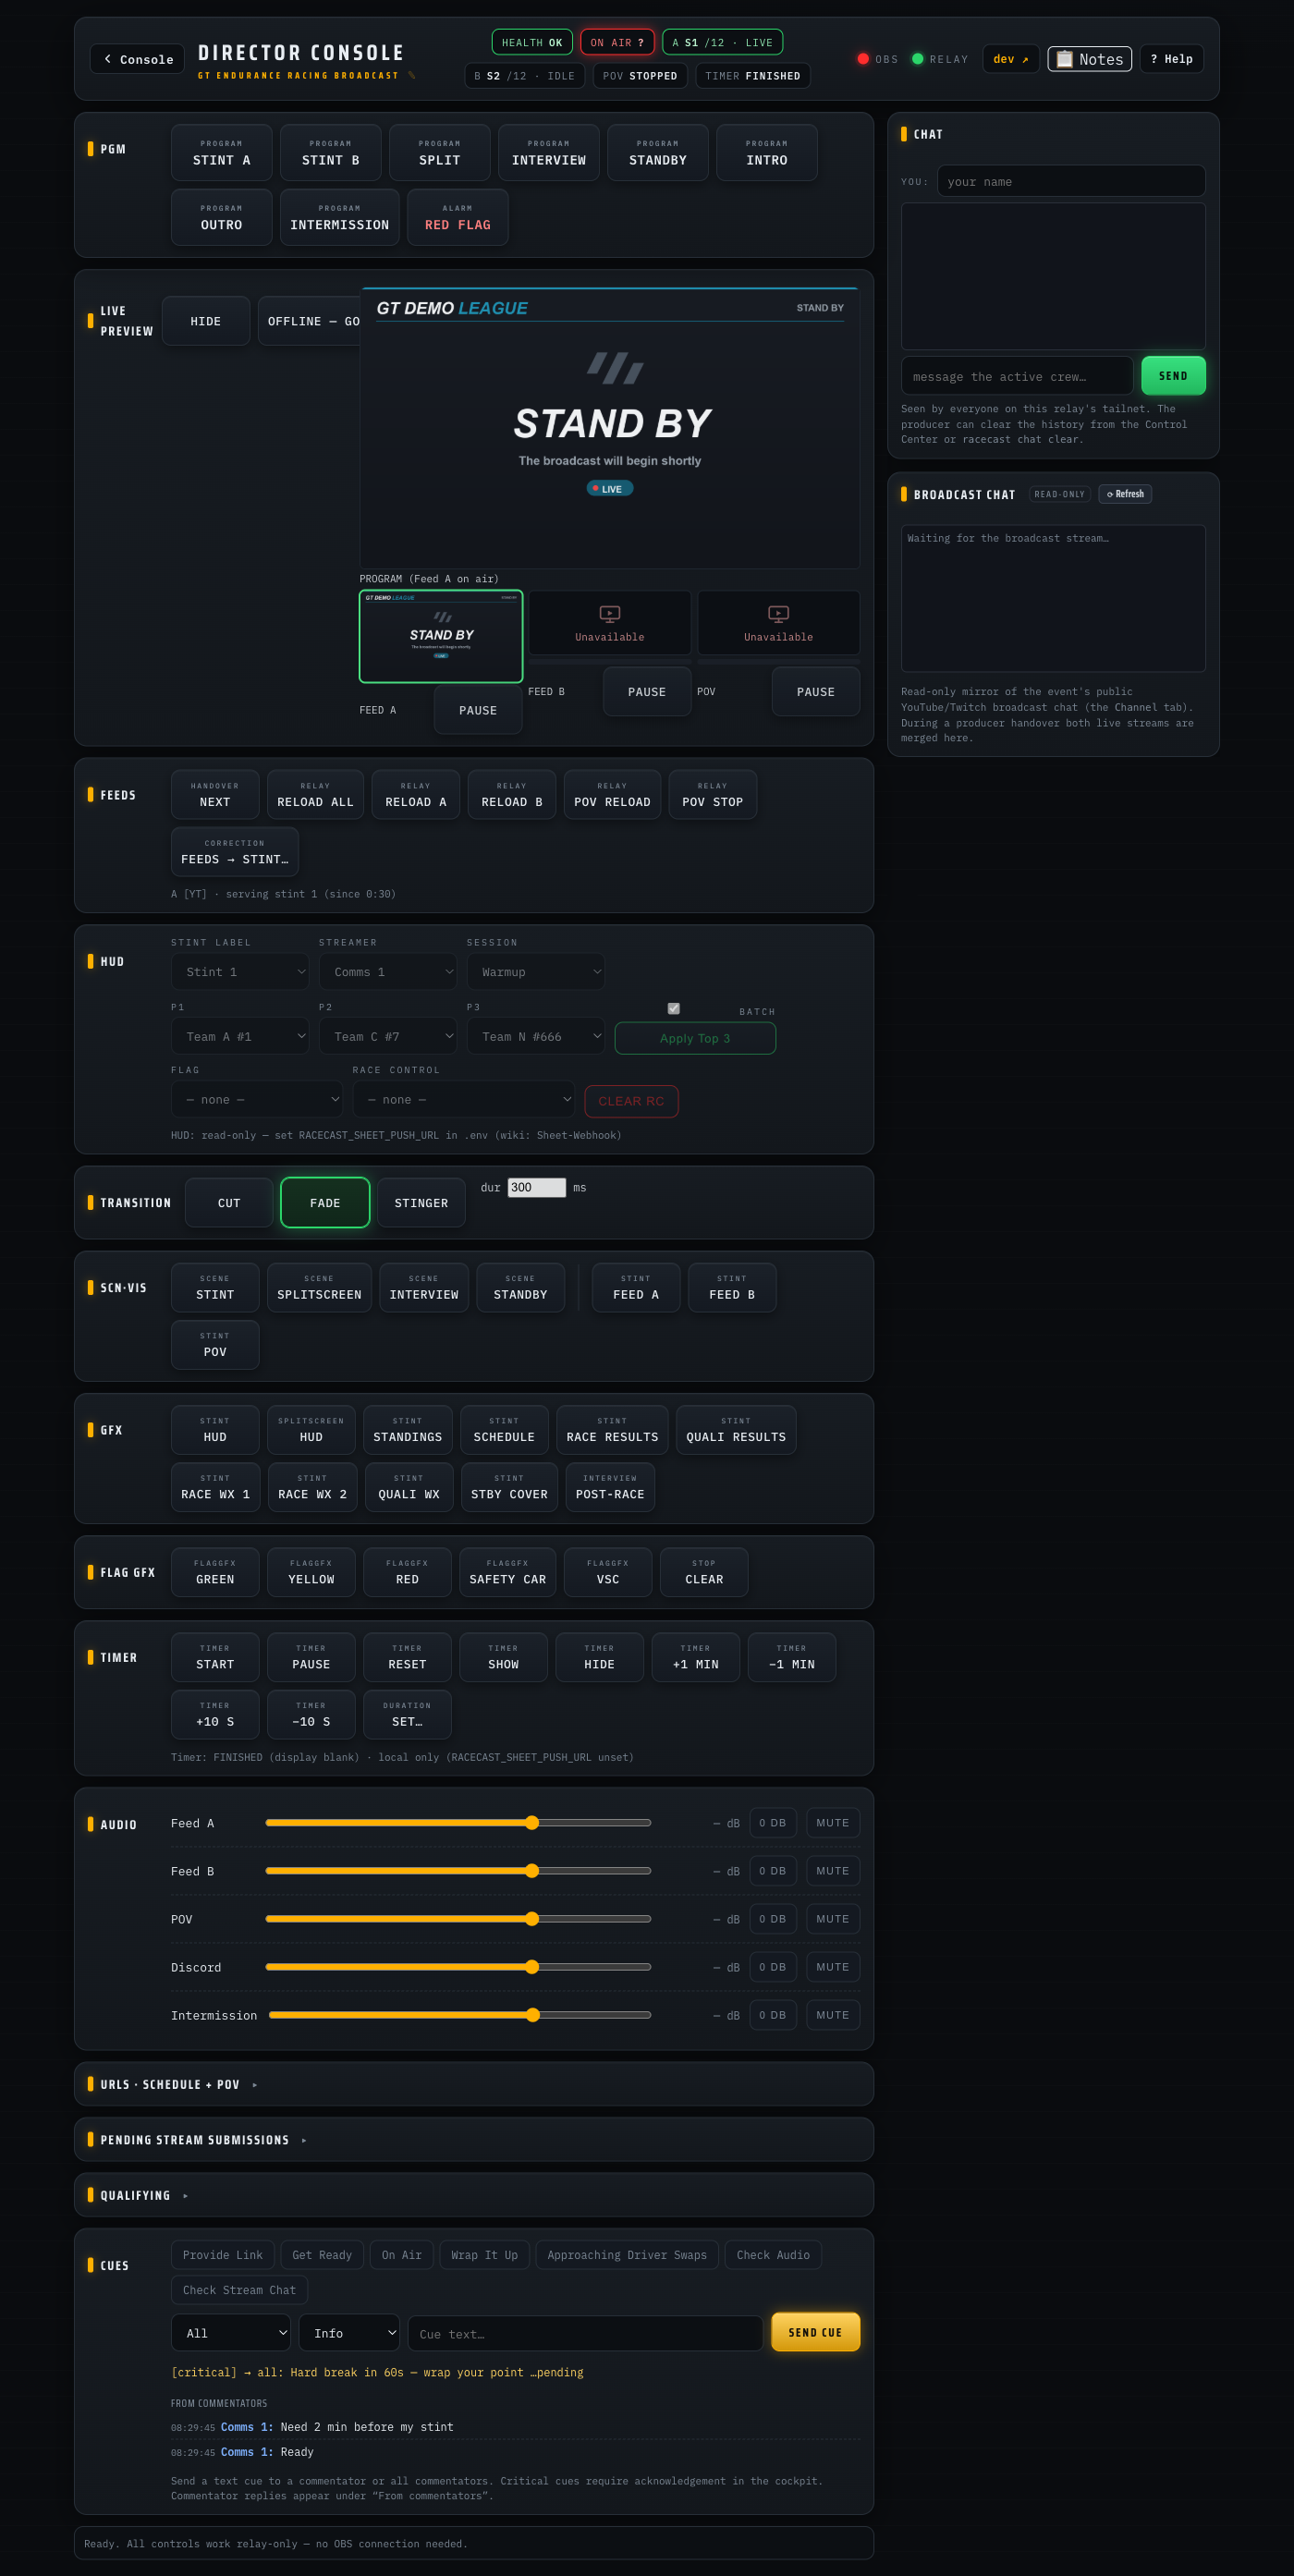
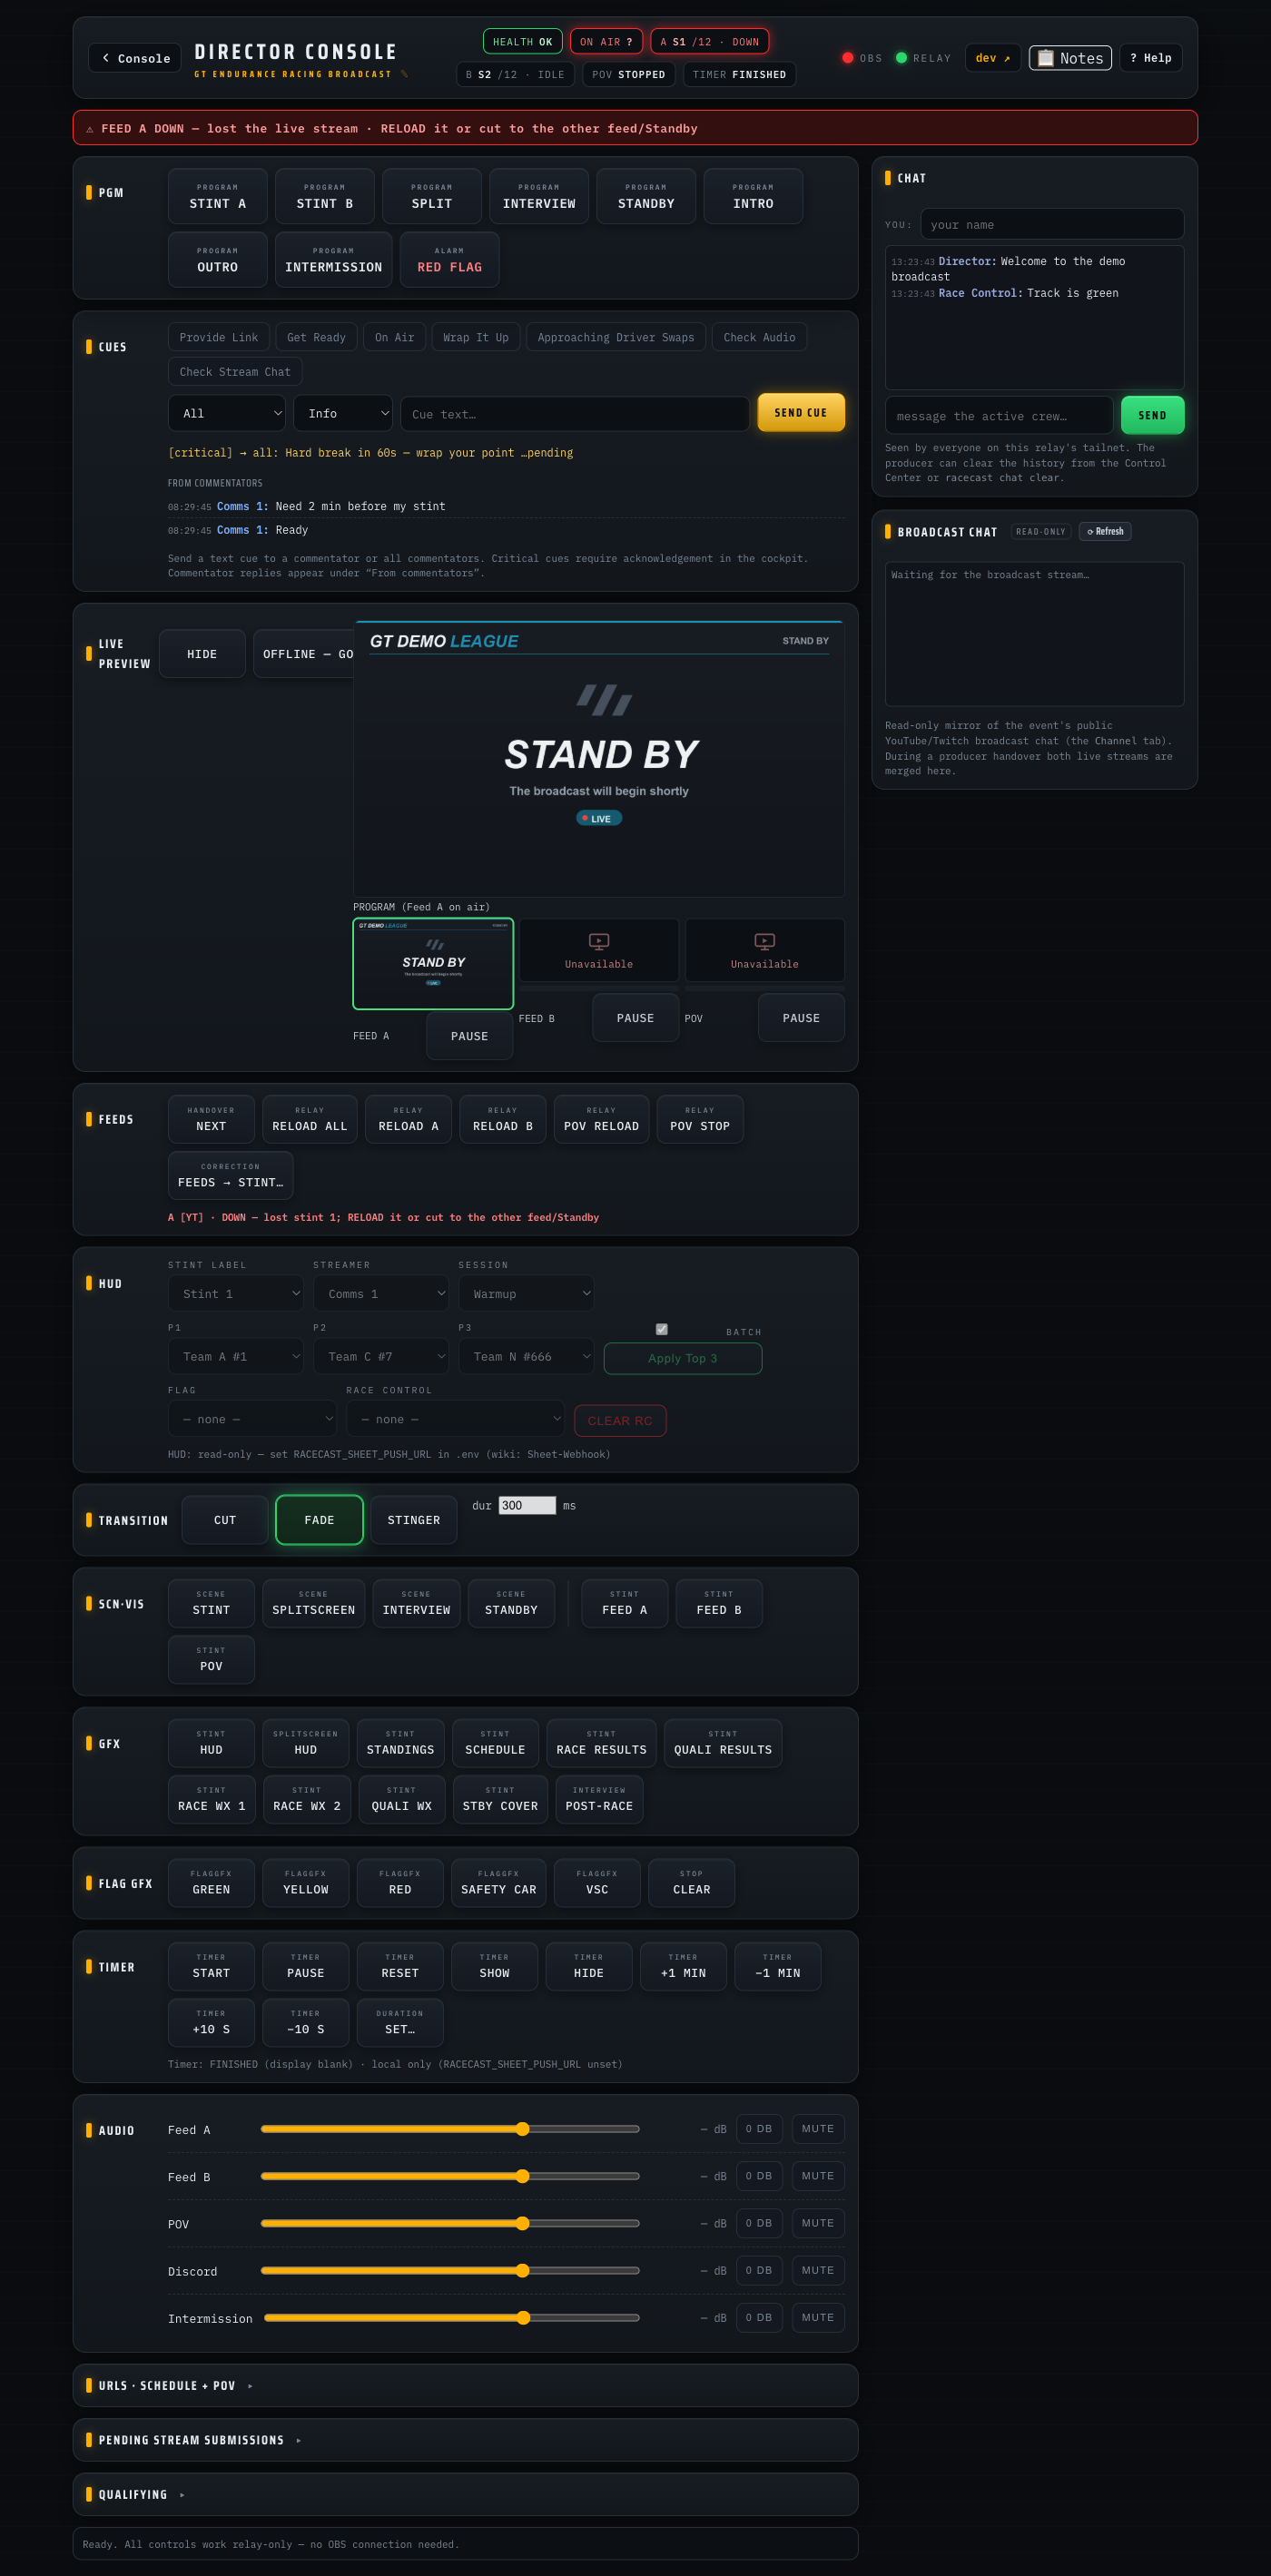
feat(panel): move Cues to the top, between PGM and Live Preview (#392)
The director's Cues section lived at the very bottom of the panel, far from
the PGM bus the director watches most. Move it up to sit directly under PGM
and above Live Preview so cueing a commentator is one glance from the program
row (issue #385). Pure DOM reorder — the section keeps its ids, so all cue
wiring (presets, compose, from-commentators) is unchanged.

Refreshes the director-panel wiki + slides screenshot to show the new order.

Closes #385

Claude-Session: https://claude.ai/code/session_0142H78CMnh8Tt4VXoqifc37

diff --git a/src/director/director-panel.html b/src/director/director-panel.html
@@ -451,6 +451,31 @@
 
   <section class="bus pgm"><div class="cap">PGM</div><div class="keys" id="pgmBus"></div></section>
 
+  <section class="bus" id="cuesBus">
+    <div class="cap">Cues</div>
+    <div class="body">
+      <div id="cuePresets"></div>
+      <div class="cue-compose">
+        <select id="cueTarget" aria-label="Cue target">
+          <option value="all">All</option>
+          <option value="on-air">On air</option>
+        </select>
+        <select id="cueLevel" aria-label="Cue level">
+          <option value="info">Info</option>
+          <option value="critical">Critical</option>
+        </select>
+        <input id="cueText" type="text" maxlength="200" placeholder="Cue text…">
+        <button id="cueSend" type="button">SEND CUE</button>
+      </div>
+      <ul id="cueRecent"></ul>
+      <div class="cueback" id="cueBackWrap" hidden>
+        <div class="cueback-cap">From commentators</div>
+        <ul id="cueBackList"></ul>
+      </div>
+      <div class="hint" id="cueHint">Send a text cue to a commentator or all commentators. Critical cues require acknowledgement in the cockpit. Commentator replies appear under “From commentators”.</div>
+    </div>
+  </section>
+
   <section class="bus preview" id="previewSec">
     <div class="cap">Live Preview
       <button class="k" id="pvToggle">SHOW</button>
@@ -582,31 +607,6 @@
         this row. Edits write the <b>Qualifying</b> tab in the Sheet.</div>
     </div>
   </details>
-
-  <section class="bus" id="cuesBus">
-    <div class="cap">Cues</div>
-    <div class="body">
-      <div id="cuePresets"></div>
-      <div class="cue-compose">
-        <select id="cueTarget" aria-label="Cue target">
-          <option value="all">All</option>
-          <option value="on-air">On air</option>
-        </select>
-        <select id="cueLevel" aria-label="Cue level">
-          <option value="info">Info</option>
-          <option value="critical">Critical</option>
-        </select>
-        <input id="cueText" type="text" maxlength="200" placeholder="Cue text…">
-        <button id="cueSend" type="button">SEND CUE</button>
-      </div>
-      <ul id="cueRecent"></ul>
-      <div class="cueback" id="cueBackWrap" hidden>
-        <div class="cueback-cap">From commentators</div>
-        <ul id="cueBackList"></ul>
-      </div>
-      <div class="hint" id="cueHint">Send a text cue to a commentator or all commentators. Critical cues require acknowledgement in the cockpit. Commentator replies appear under “From commentators”.</div>
-    </div>
-  </section>
 
   <div id="log">Ready. All controls work relay-only — no OBS connection needed.</div>
 